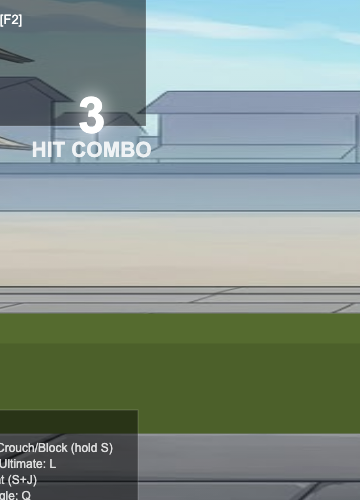
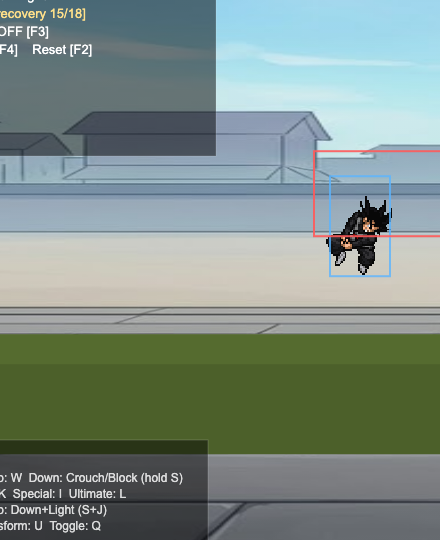
Goku Black STAGE 3a: Kamehameha + Spirit Bomb (form-aware charge/release specials)
Both are charge-then-release projectile specials on the SPECIAL button (motion-gated),
implemented via the Gojo Hollow Purple pattern (cast pose + schedulePendingSpawn releases
the beam mid-animation). Replaces the triggerSpecial no-op with executeGokuBlackSpecial;
the ULTIMATE no-op stays (Sword Slash = Stage 3b).

  KAMEHAMEHA — QCF (D→F): cost 30, dmg 120 base / 150 Rose, fast beam (speed 14). His cheapest
    special — a reliable zoning/punish tool (matches the existing Goku baseline).
  SPIRIT BOMB — QCB (D→B): cost 40, dmg 150 base / 188 Rose, slow big orb (speed 9, 42px). The
    "big commitment" — costs more, telegraphed, bigger hitbox, hits harder.
  Neutral/other motion → no-op (Explosion is Stage 3b).

FORM-AWARE ART (confirmed base AND Rose):
  - Caster CHARGE→RELEASE pose auto-swaps to the Rose sheet via _skinAnim — gbKamehameha/
    gbSpiritBomb cast actions exist in BOTH characters.js animationData (base) and abilities.js
    SSJ_ROSE_ANIM (Rose). Screenshots confirm black-haired base vs pink-haired Rose casts.
  - Rose Kamehameha uses goku_black_ssj_rose_kamehameha.png (the FULL charge+release sequence;
    _2.png is a release-only subset — NOT used, per asset-map inspection).
  - Beam is form-colored; Rose bakes in its +25% damage buff (projectile damage is NOT auto-
    scaled by damageMultiplier — combat.js:945 — so applied explicitly).
  - Char cast sheets RE-SLICED uniform. Effect/beam FX sheets are non-uniform (frames 2→128px,
[…]

diff --git a/abilities.js b/abilities.js
@@ -216,7 +216,8 @@ const BETA_SPECIAL_MOTIONS = {
   megumi: { F: ["D", "F"], B: ["D", "B"], U: ["D", "U"], D: ["F", "D", "F"], N: ["B", "F"] },    // F=Divine Dogs · B=Max Elephant · U=Rabbit · D=Nue(sub) · neutral=Toad(sub)
   toji:   { F: ["D", "F"], B: ["D", "B"], D: ["F", "F"] },                                       // F=Curse Spirit · B=Chain-Knife · D=Rapid Strike(sub) · neutral=Inventory Smash
   sasuke: { F: ["D", "F"], B: ["D", "B"], D: ["D"] },                                            // F=Lightning · B=Chidori Koiten · D=Shuriken · neutral=Dash Strike
-  rick:   { F: ["D", "F"], B: ["D", "B"], U: ["U"], D: ["D"] }                                   // F=Portal-Pull · B=Portal-Push · U=Rocket · D=Laser · neutral=Meeseeks
+  rick:   { F: ["D", "F"], B: ["D", "B"], U: ["U"], D: ["D"] },                                  // F=Portal-Pull · B=Portal-Push · U=Rocket · D=Laser · neutral=Meeseeks
+  goku_black: { F: ["D", "F"], B: ["D", "B"] }                                                   // F=Kamehameha (QCF) · B=Spirit Bomb (QCB) · neutral=Explosion (Stage 3b)
 }
 
 // Resolve the exact canonical motion for the fighter's currently-held direction (stamped
@@ -2220,12 +2221,10 @@ export function triggerSpecial(fighter, context = {}) {
     case "omololu": return executeOmoluSpecial(fighter, context)
     case "toji":    return executeToji_Special(fighter, context)
     case "rick":    return executeRickSpecial(fighter, context)
-    // Goku Black: NO special wired yet (Kamehameha/Spirit Bomb/Explosion/Sword Slash are Stage 2/3,
-    // executeGokuBlackSpecial not built). Explicit no-op so it does NOT fall through to
-    // executeFallbackSpecial — that path would read his DISPLAY-ONLY `specials` kit-metadata stub,
-    // fire a bogus "kamehameha" (spends 30 energy) and set action "special_2" (no sheet) → the
-    // idle sheet renders unsliced = "4 copies" glitch. Swap to executeGokuBlackSpecial in Stage 3.
-    case "goku_black": return false
+    // Goku Black — Stage 3a: Kamehameha (QCF) + Spirit Bomb (QCB). Neutral/other motions return
+    // false (no-op, no glitch) until Explosion (neutral) lands in Stage 3b. NOTE: the ULTIMATE
+    // dispatch still no-ops goku_black (Sword Slash = Stage 3b) — do not remove that one yet.
+    case "goku_black": return executeGokuBlackSpecial(fighter, context)
     default:        return executeFallbackSpecial(fighter, context)
   }
 }
@@ -2736,7 +2735,11 @@ const SSJ_ROSE_ANIM = {
   heavy:     { frames: 8, width: 108, height: 68, speed: 2, anchorY: 0, sheet: "./goku_black_ssj_rose_ki_slash.png" },   // Ki Slash (Rose)
   up:        { frames: 4, width: 43,  height: 62, speed: 3, anchorY: 0, sheet: "./goku_black_ssj_rose_up_attack.png" },
   air:       { frames: 5, width: 63,  height: 70, speed: 4, anchorY: 0, sheet: "./goku_black_ssj_rose_down_attack.png" },
-  down_air:  { frames: 5, width: 63,  height: 70, speed: 4, anchorY: 0, sheet: "./goku_black_ssj_rose_down_attack.png" }
+  down_air:  { frames: 5, width: 63,  height: 70, speed: 4, anchorY: 0, sheet: "./goku_black_ssj_rose_down_attack.png" },
+  // Special CHARGE→RELEASE cast poses (Stage 3a) — Rose variants; base variants live in characters.js.
+  // The _skinAnim swap makes the caster pose form-aware automatically (same action key, Rose sheet).
+  gbKamehameha: { frames: 10, width: 95, height: 58, speed: 4, anchorY: 0, sheet: "./goku_black_ssj_rose_kamehameha.png" },
+  gbSpiritBomb: { frames: 6,  width: 53, height: 65, speed: 5, anchorY: 0, sheet: "./goku_black_ssj_rose_spirit_bomb.png" }
 }
 
 export function isGokuBlack(fighter) { return (fighter?.rosterKey || "").toLowerCase() === "goku_black" }
@@ -2791,6 +2794,60 @@ export function applyGokuBlackFormSystem(fighter) {
     drainPerFrame: SSJ_ROSE_DRAIN,
     revert: revertSSJRose
   })
+}
+
+// ── GOKU BLACK — SPECIALS (Stage 3a: Kamehameha + Spirit Bomb) ──────────────
+// Charge-then-release projectile specials on the SPECIAL button, motion-gated.
+// FORM-AWARE: the caster CHARGE→RELEASE pose auto-swaps to the Rose sheet via _skinAnim
+// (gbKamehameha/gbSpiritBomb exist in BOTH base animationData and SSJ_ROSE_ANIM), the beam is
+// form-colored, and Rose applies its +25% damage buff to the beam (projectile damage is NOT
+// auto-scaled by damageMultiplier — combat.js:945 — so we bake it in here).
+// Explosion (neutral) + Sword Slash (ultimate) = Stage 3b.
+const GB_KAME_CAST = 40, GB_KAME_FIRE = 24   // full cast-pose play length / frame the beam releases
+const GB_BOMB_CAST = 30, GB_BOMB_FIRE = 20
+function executeGokuBlackSpecial(fighter, context) {
+  const dirs = getRelativeDirections(fighter)
+  const target = getTargetResolver(context)(fighter)
+  const rose = !!fighter._ssjRoseActive
+
+  // QCF (D→F) = KAMEHAMEHA — fast charge→release beam
+  if (endsWithPattern(dirs, ["D", "F"])) {
+    if (!spendEnergy(fighter, 30)) return false
+    fighter._spriteCastMove  = "gbKamehameha"
+    fighter._spriteCastTimer = GB_KAME_CAST
+    fighter.attackCooldown   = getAttackDuration(GB_KAME_CAST + 4, fighter)
+    schedulePendingSpawn(GB_KAME_FIRE, () => {
+      spawnProjectile(fighter, "gbKamehameha", {
+        damage: rose ? Math.round(120 * SSJ_ROSE_MULT.dmg) : 120, speed: 14, lifetime: 130,
+        hitstun: 22, knockbackX: 9, knockbackY: -2,
+        color: rose ? "#ff5db1" : "#b06bff", w: 26, h: 22
+      }, context)
+      shakeCamera(context, 9, 8)
+    })
+    focusCameraOnAction(context, fighter, target, 0.97, 12)
+    return true
+  }
+
+  // QCB (D→B) = SPIRIT BOMB — slower, bigger charge→release orb
+  if (endsWithPattern(dirs, ["D", "B"])) {
+    if (!spendEnergy(fighter, 40)) return false
+    fighter._spriteCastMove  = "gbSpiritBomb"
+    fighter._spriteCastTimer = GB_BOMB_CAST
+    fighter.attackCooldown   = getAttackDuration(GB_BOMB_CAST + 4, fighter)
+    schedulePendingSpawn(GB_BOMB_FIRE, () => {
+      spawnProjectile(fighter, "gbSpiritBomb", {
+        damage: rose ? Math.round(150 * SSJ_ROSE_MULT.dmg) : 150, speed: 9, lifetime: 150,
+        hitstun: 28, knockbackX: 7, knockbackY: -6,
+        color: rose ? "#ff9ed6" : "#9d7bff", w: 42, h: 42
+      }, context)
+      shakeCamera(context, 12, 10)
+    })
+    focusCameraOnAction(context, fighter, target, 0.95, 14)
+    return true
+  }
+
+  // neutral / other motion → nothing yet (Explosion is Stage 3b). No energy spent, no glitch.
+  return false
 }
 
 export function applyOmoluPassiveSystems(fighter) {

diff --git a/characters.js b/characters.js
@@ -1641,7 +1641,11 @@ const gokuBlack = {
     air:       { frames: 5, width: 56, height: 66, speed: 4, anchorY: 0, sheet: "./black_goku_air_attack.png" },    // RE-SLICED uniform (slash-arc frames no longer clipped)
     down_air:  { frames: 5, width: 56, height: 66, speed: 4, anchorY: 0, sheet: "./black_goku_air_attack.png" },    // reuses air_attack (base down-air GAP)
     // SSJ ROSE transform-morph sequence (played as a brief cast pose via _spriteCastMove="transform").
-    transform: { frames: 8, width: 36, height: 66, speed: 3, anchorY: 0, loop: false, lockLastFrame: true, sheet: "./black_goku_transformation_to_ssj_rose.png" }
+    transform: { frames: 8, width: 36, height: 66, speed: 3, anchorY: 0, loop: false, lockLastFrame: true, sheet: "./black_goku_transformation_to_ssj_rose.png" },
+    // Special CHARGE→RELEASE cast poses (Stage 3a) — BASE variants (Rose variants live in abilities.js
+    // SSJ_ROSE_ANIM; _skinAnim makes the pose form-aware automatically). RE-SLICED uniform.
+    gbKamehameha: { frames: 10, width: 95, height: 53, speed: 4, anchorY: 0, sheet: "./black_goku_kamehameha.png" },
+    gbSpiritBomb: { frames: 6,  width: 53, height: 66, speed: 5, anchorY: 0, sheet: "./black_goku_spirit_bomb.png" }
   }
 }
 
